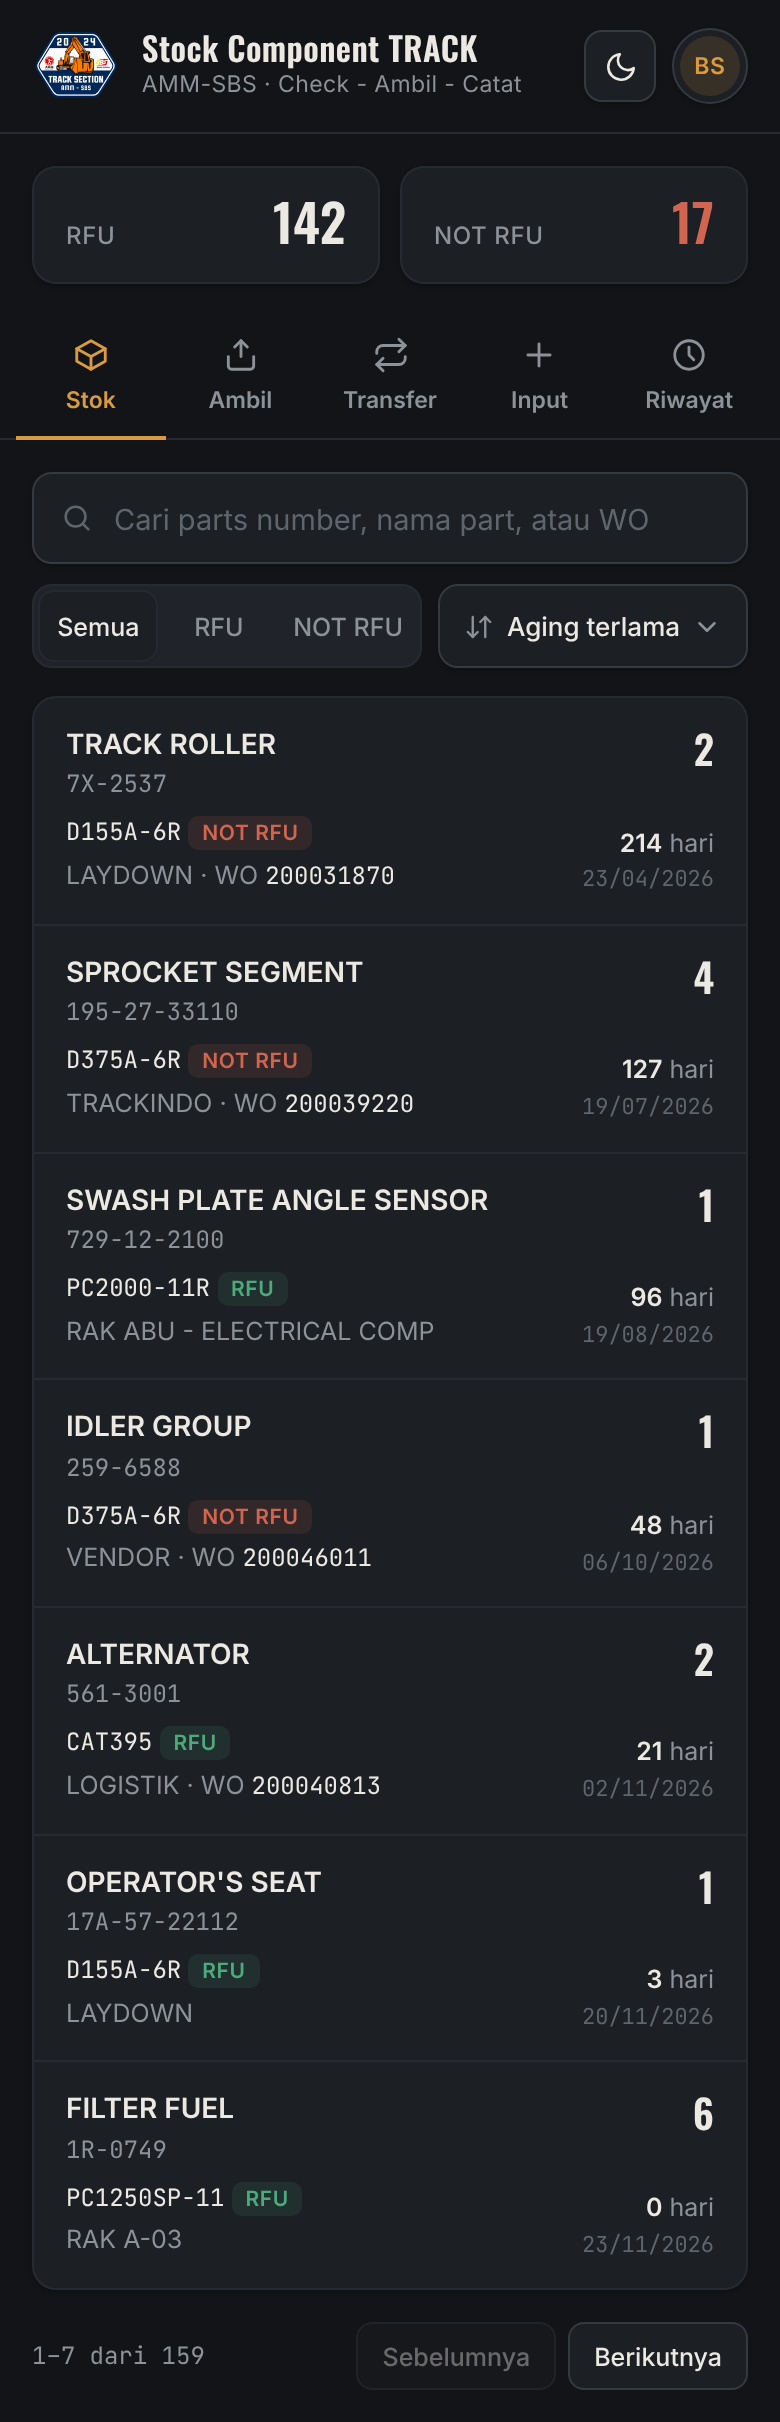
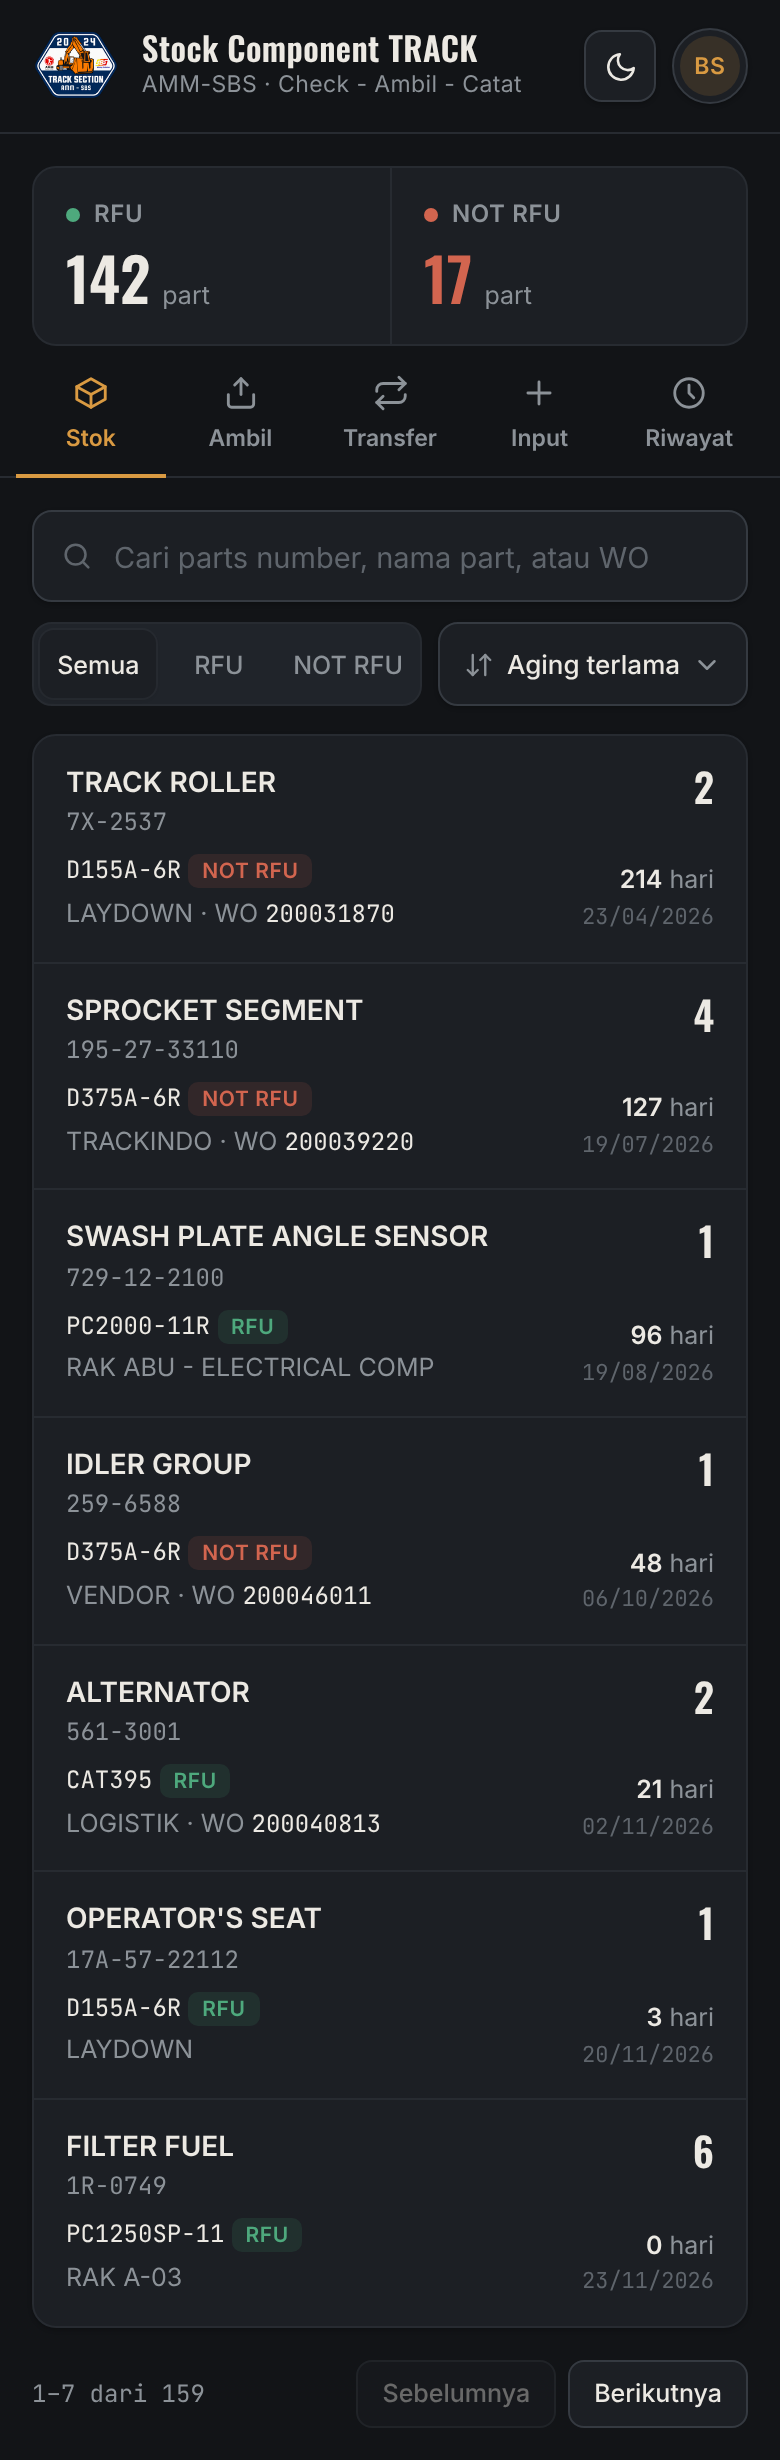
Mockup: rapikan ringkasan RFU / NOT RFU di bagian atas
Claude-Session: https://claude.ai/code/session_01BmAvrCdKGvPi1XLze8eEpq

diff --git a/mockup/login-nrp-wo/mockup-login-nrp.html b/mockup/login-nrp-wo/mockup-login-nrp.html
@@ -263,6 +263,16 @@
     .rlist.cards{display:none;}
     .tbl-wrap{display:block;}
   }
+  .stats2{display:grid;grid-template-columns:1fr 1fr;margin:16px 16px 4px;background:var(--field);border:1px solid var(--line);border-radius:12px;overflow:hidden;}
+  .s2{all:unset;box-sizing:border-box;cursor:pointer;display:flex;flex-wrap:wrap;align-items:baseline;column-gap:6px;padding:14px 16px;}
+  .s2 + .s2{border-left:1px solid var(--line);}
+  .s2:hover{background:var(--soft);}
+  .s2-l{flex-basis:100%;display:flex;align-items:center;gap:7px;font-size:12px;font-weight:600;letter-spacing:.3px;color:var(--muted);}
+  .s2-l i{width:7px;height:7px;border-radius:50%;}
+  .s2-l i.g{background:var(--green);} .s2-l i.r{background:var(--red);}
+  .s2-n{font-family:'Oswald',sans-serif;font-weight:600;font-size:30px;line-height:1;margin-top:8px;color:var(--text);}
+  .s2.w .s2-n{color:var(--red);}
+  .s2-u{font-size:12.5px;color:var(--muted);}
   .formp{padding:20px 16px 32px;}
   .ff{margin-bottom:16px;}
   .ff label{display:block;font-size:12.5px;font-weight:500;color:var(--muted);margin-bottom:7px;}
@@ -377,9 +387,9 @@
         </div>
       </div>
     </header>
-    <div class="stats">
-      <div class="stat"><span class="l">RFU</span><span class="n">142</span></div>
-      <div class="stat w"><span class="l">NOT RFU</span><span class="n">17</span></div>
+    <div class="stats2">
+      <button class="s2"><span class="s2-l"><i class="g"></i>RFU</span><span class="s2-n">142</span><span class="s2-u">part</span></button>
+      <button class="s2 w"><span class="s2-l"><i class="r"></i>NOT RFU</span><span class="s2-n">17</span><span class="s2-u">part</span></button>
     </div>
     <nav class="tabs" id="tabs">
       <span data-tab="stok" class="on"><svg viewBox="0 0 24 24" fill="none" stroke="currentColor" stroke-width="1.8" stroke-linecap="round" stroke-linejoin="round"><path d="M21 8 12 3 3 8l9 5 9-5Z"/><path d="M3 8v8l9 5 9-5V8"/><path d="M12 13v8"/></svg>Stok</span>
